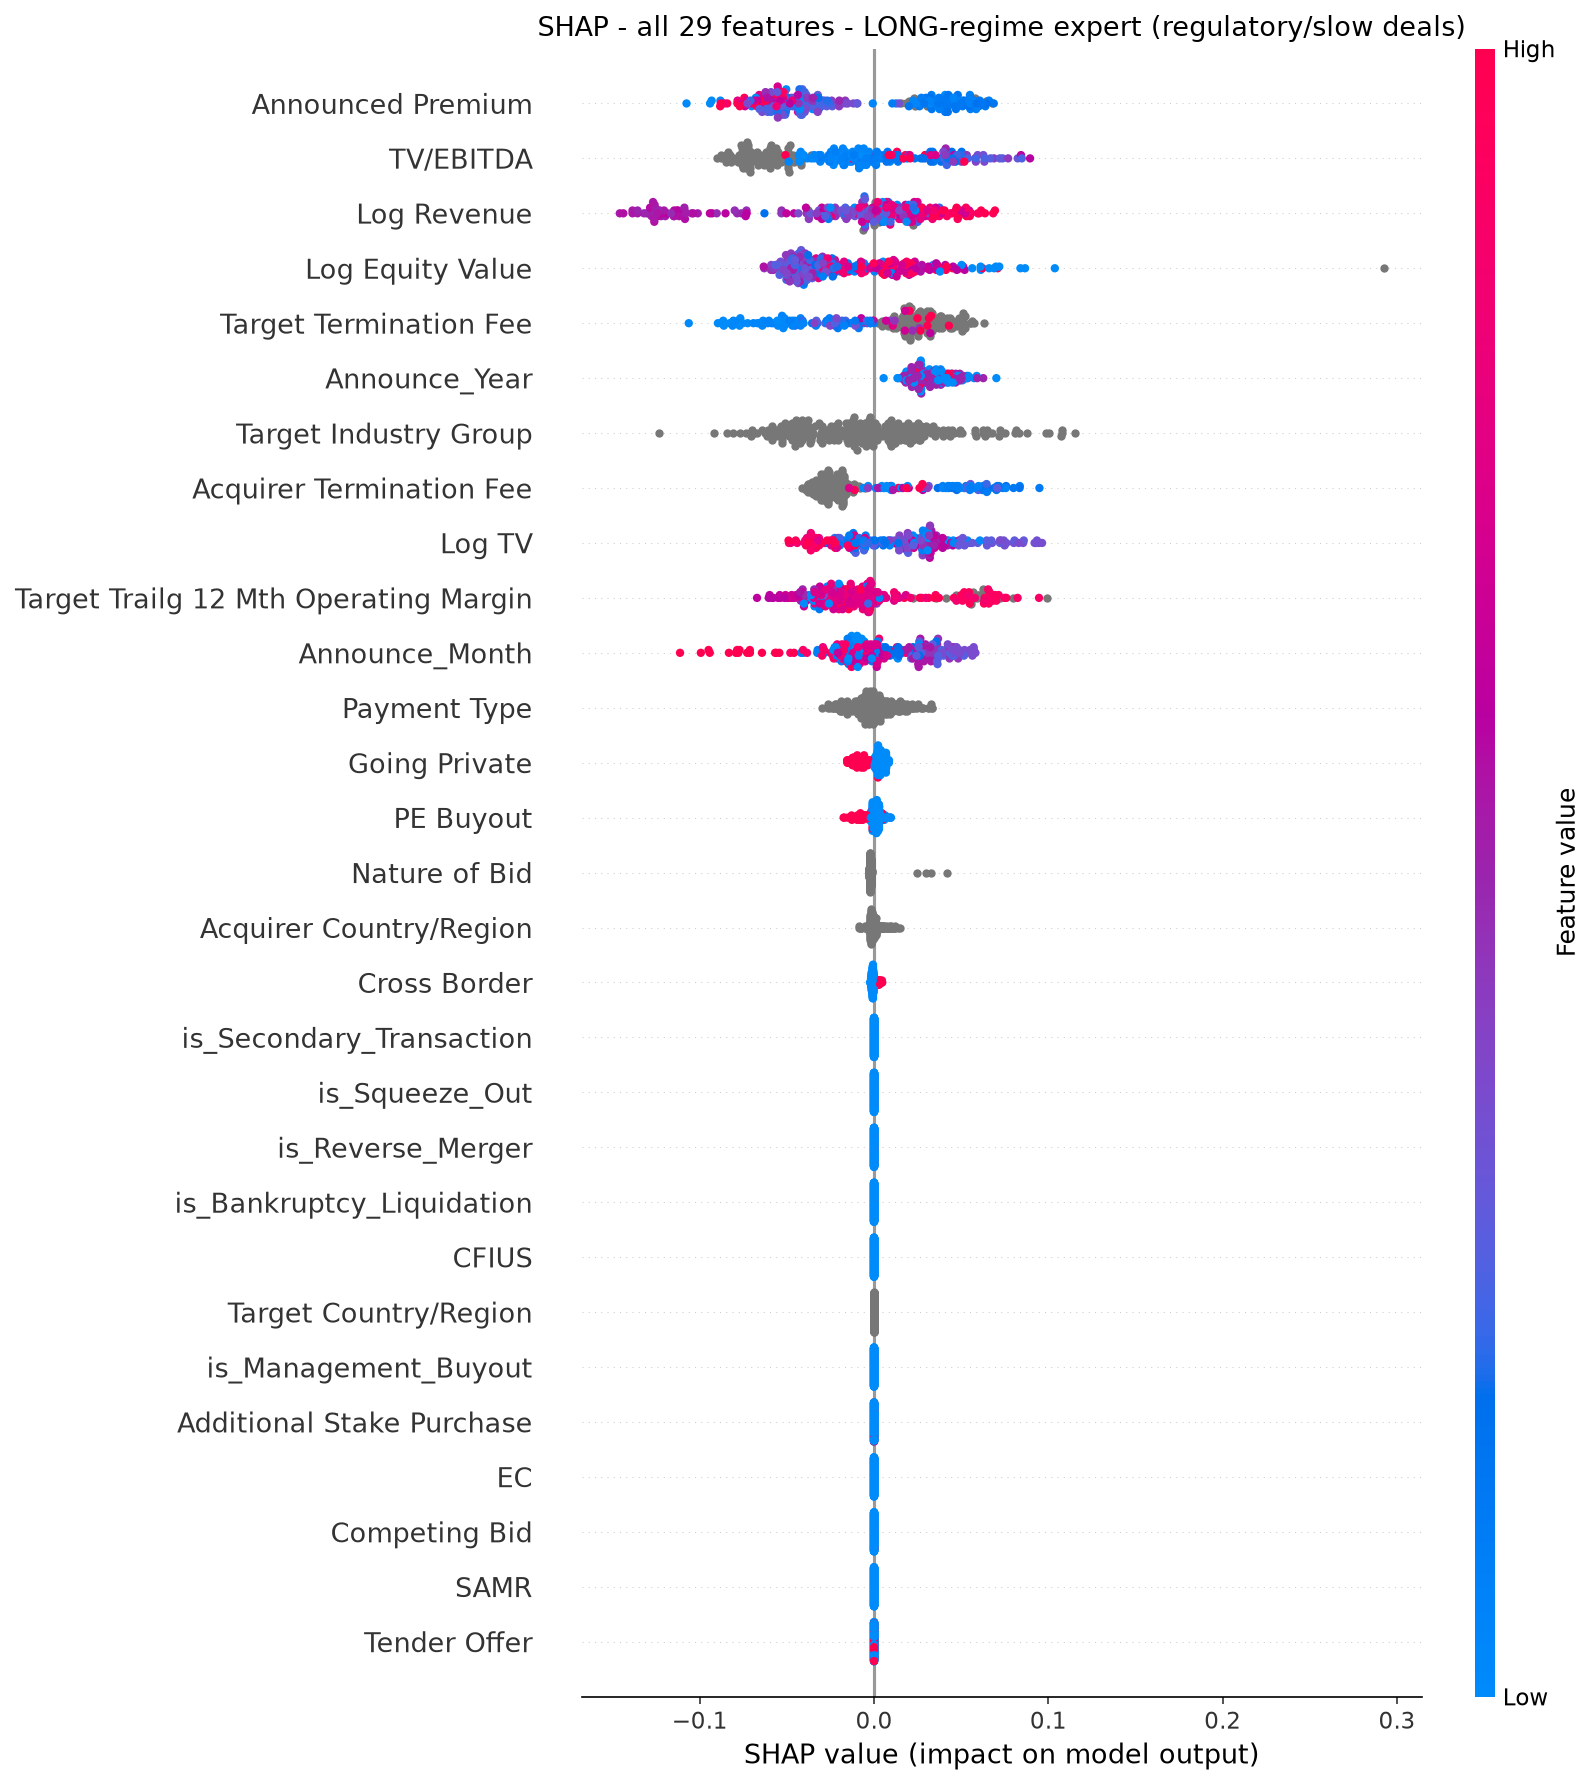
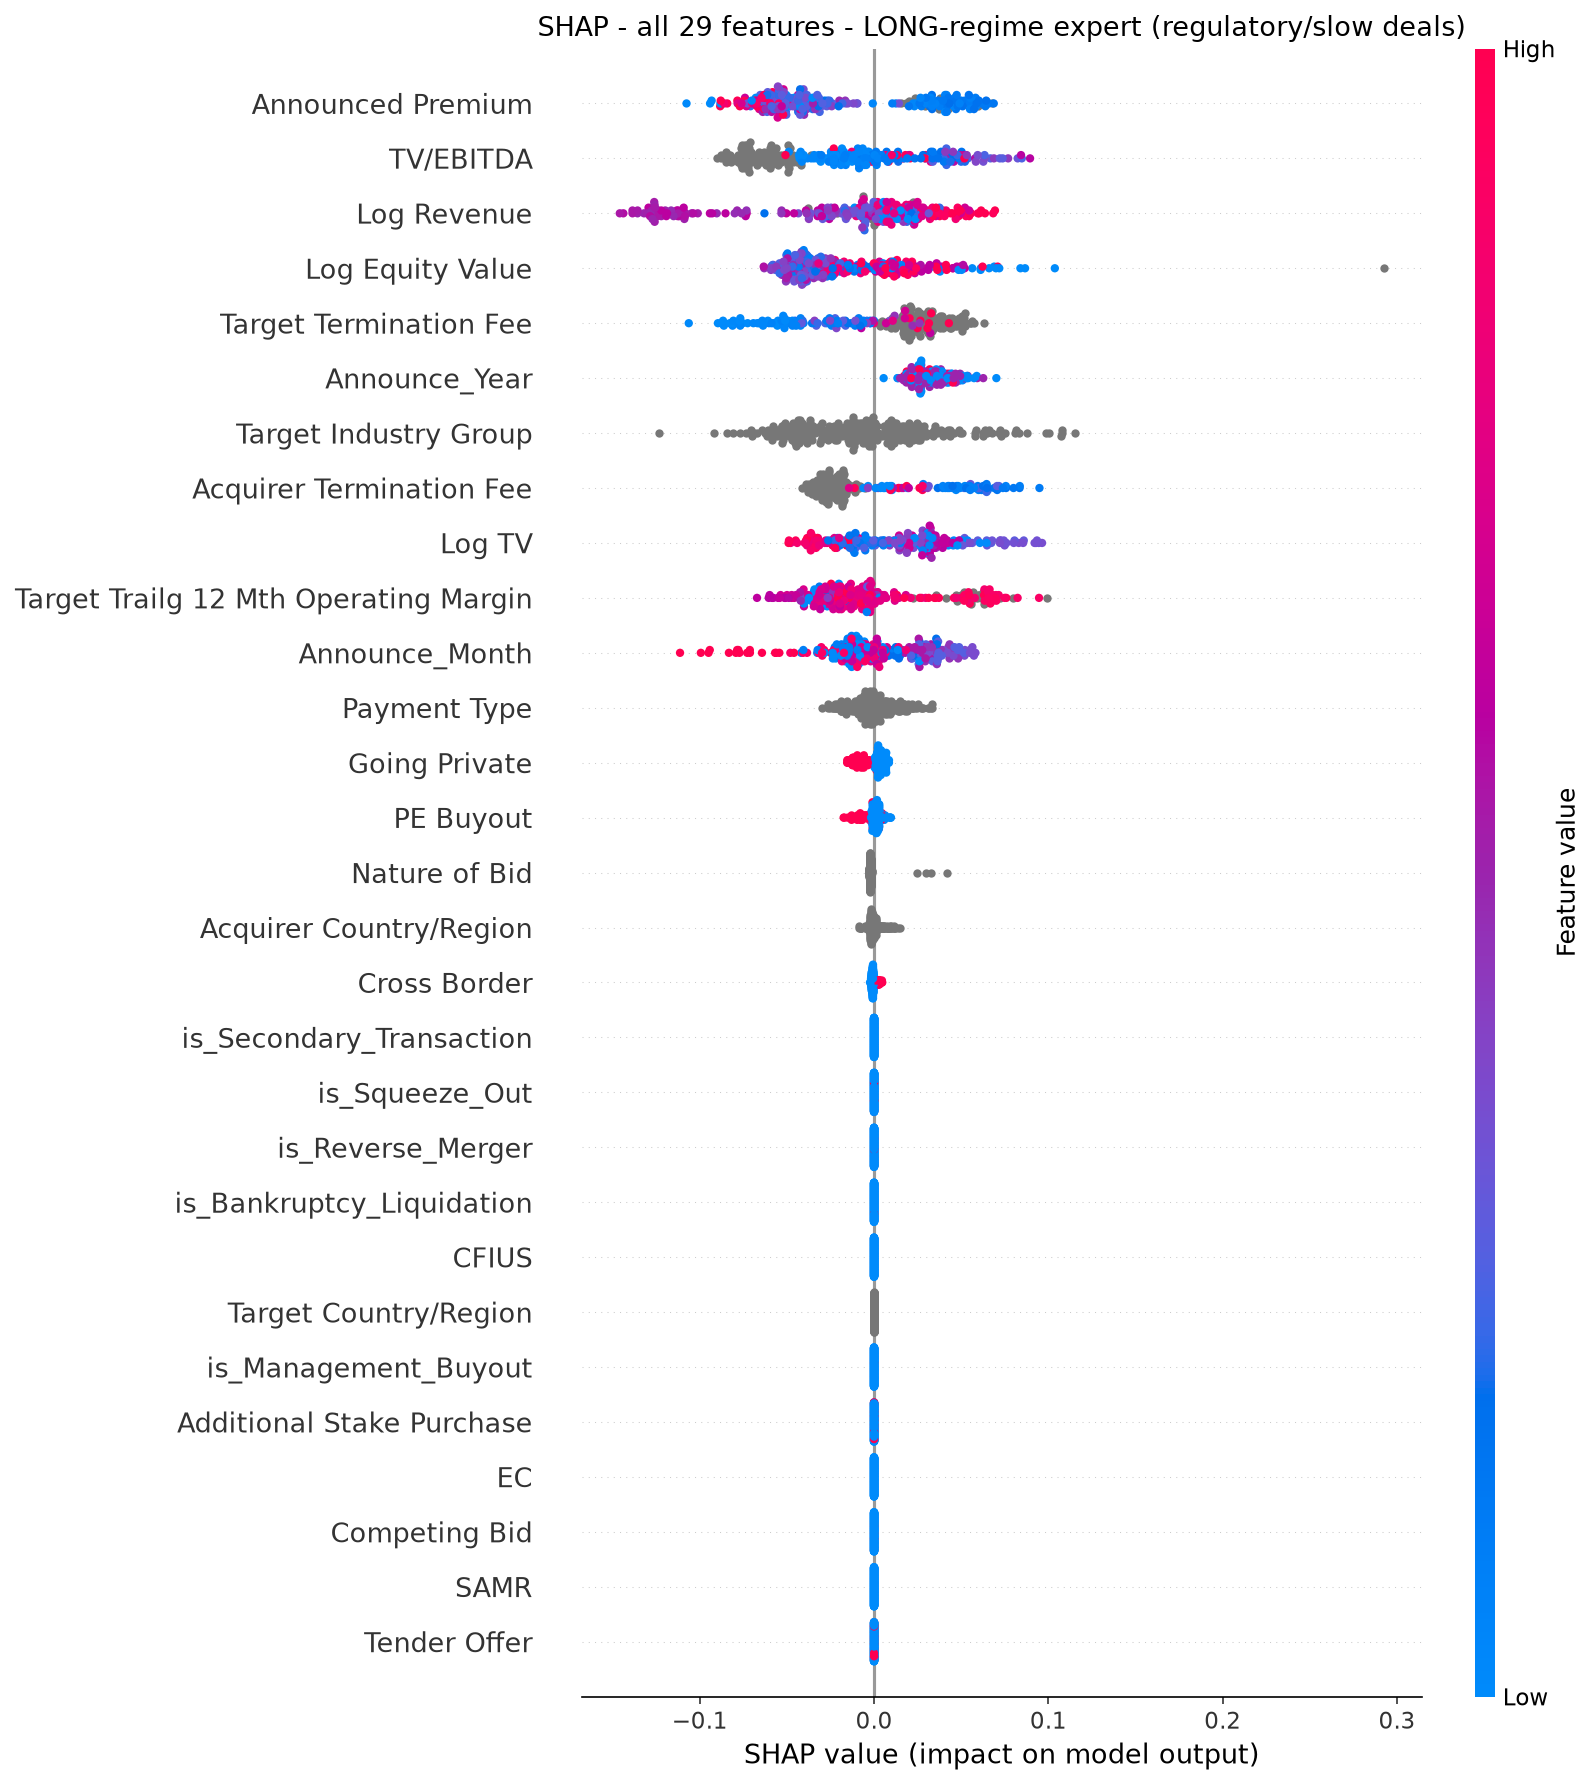
Exempt PE-sponsor acquirers from the SAMR+EC routing floor
Financial-sponsor (PE buyout) acquirers rarely have operating overlap with
the target, so SAMR/EC clearance is typically a formality rather than a
substantive, timeline-extending review. Flooring P(long) for these deals
would over-predict the timeline, so they are now carved out of the floor.

- _apply_reg_floor now requires PE Buyout != 1 in addition to SAMR=1 & EC=1.
- Configurable via SPONSOR_EXCEPTION_COL constant.
- Verified: SAMR+EC strategic deals still floored to 0.20; SAMR+EC PE-buyout
  deals keep the router's native probability; single-flag and no-flag deals
  unaffected. Regenerated ensemble artifact.

Claude-Session: https://claude.ai/code/session_01Ggm69rGSTMDSyFKHjp8prt

Changed region(s): [[0.4608, 0.0308, 0.6144, 0.2157], [0.4915, 0.2465, 0.6144, 0.4006]]

diff --git a/ma_completion_twostage_ensemble.py b/ma_completion_twostage_ensemble.py
@@ -100,6 +100,11 @@ EXPERT_WEIGHTS = (0.30, 0.20, 0.50)
 # learned probability, not a fitted parameter.
 SAMR_EC_FLAGS = ("SAMR", "EC")   # both must be 1 for the floor to apply
 SAMR_EC_MIN_P_LONG = 0.20        # minimum routing probability when both flags are on
+# Exception: the floor does NOT apply when the acquirer is a financial sponsor
+# (PE buyout). Sponsor acquirers rarely have operating overlap with the target, so
+# SAMR/EC clearance is typically a formality rather than a substantive, timeline-
+# extending review -- flooring P(long) for them would over-predict the timeline.
+SPONSOR_EXCEPTION_COL = "PE Buyout"
 
 # ---- Artifact paths ----
 ENSEMBLE_PATH = "ma_twostage_ensemble.pkl"
@@ -189,10 +194,18 @@ class TwoStageEnsemble:
 
     # ---- stage 1 ----------------------------------------------------------------------
     def _apply_reg_floor(self, p, X):
-        """Floor P(long) for deals requiring BOTH SAMR and EC regulatory clearance."""
+        """Floor P(long) for strategic deals requiring BOTH SAMR and EC clearance.
+
+        Exception: financial-sponsor (PE buyout) acquirers are exempt -- their reviews
+        rarely involve operating overlap, so the regulatory timeline penalty does not
+        apply and the learned router's estimate is left untouched.
+        """
         floor = getattr(self, "reg_floor", SAMR_EC_MIN_P_LONG)
         if floor and all(f in X.columns for f in SAMR_EC_FLAGS):
             both_on = np.logical_and.reduce([X[f].to_numpy() == 1 for f in SAMR_EC_FLAGS])
+            if SPONSOR_EXCEPTION_COL in X.columns:
+                # Sponsor acquirers are carved out of the floor.
+                both_on = both_on & (X[SPONSOR_EXCEPTION_COL].to_numpy() != 1)
             p = np.where(both_on, np.maximum(p, floor), p)
         return p
 
